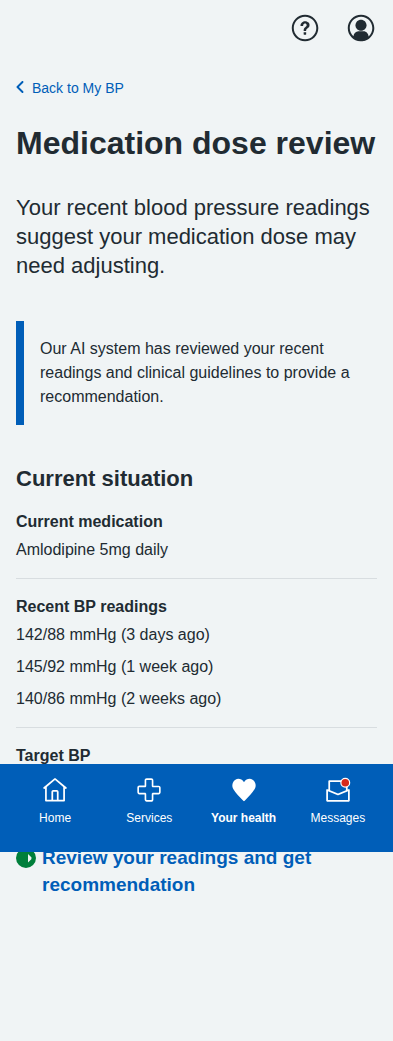
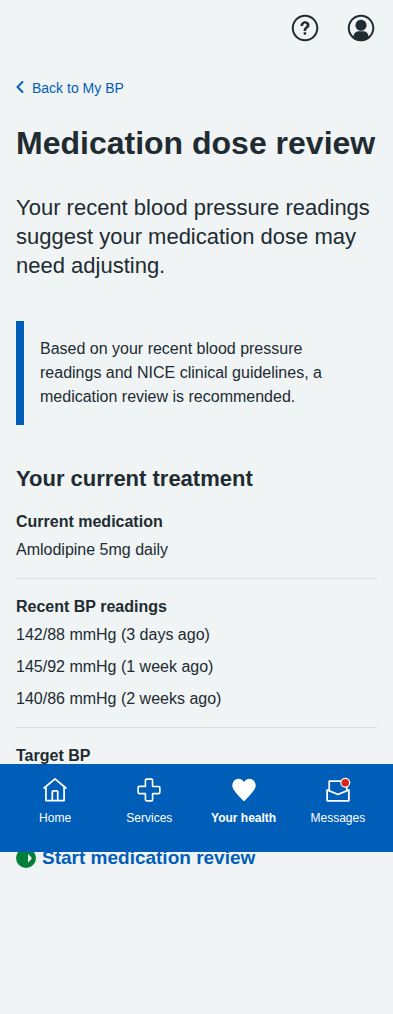
Fix dose titration landing page content and navigation issues

diff --git a/prototype/v1/app/views/pages/mybp/dose-titration/index.html b/prototype/v1/app/views/pages/mybp/dose-titration/index.html
@@ -24,10 +24,10 @@
 
       <div class="nhsuk-inset-text">
         <span class="nhsuk-u-visually-hidden">Information: </span>
-        <p>Our AI system has reviewed your recent readings and clinical guidelines to provide a recommendation.</p>
+        <p>Based on your recent blood pressure readings and NICE clinical guidelines, a medication review is recommended.</p>
       </div>
 
-      <h2 class="nhsuk-heading-m">Current situation</h2>
+      <h2 class="nhsuk-heading-m">Your current treatment</h2>
       
       <dl class="nhsuk-summary-list">
         <div class="nhsuk-summary-list__row">
@@ -66,7 +66,7 @@
             <path d="m0 0h24v24h-24z" fill="none"/>
             <path d="m12 2a10 10 0 1 0 10 10 10.011 10.011 0 0 0 -10-10zm5.293 11.293-3.293 3.293v-8.586l3.293 3.293a1 1 0 0 1 0 1.414z"/>
           </svg>
-          <span class="nhsuk-action-link__text">Review your readings and get recommendation</span>
+          <span class="nhsuk-action-link__text">Start medication review</span>
         </a>
       </div>
 

diff --git a/prototype/v1/screenshots/screenshots.md b/prototype/v1/screenshots/screenshots.md
@@ -13,7 +13,7 @@ Complete collection of iPhone-formatted screenshots (393x852 pixels) for all scr
 
     ### 1. Landing Page
     ![Dose Titration Landing](dose-titration-landing.png)
-    **Dose Titration Landing** - Shows current medication status and recent BP readings with option to start review process.
+    **Dose Titration Landing** - Shows current medication status and recent BP readings with option to start medication review based on NICE guidelines.
 
     ### 2. Readings Review
     ![Dose Titration Review](dose-titration-review.png)
